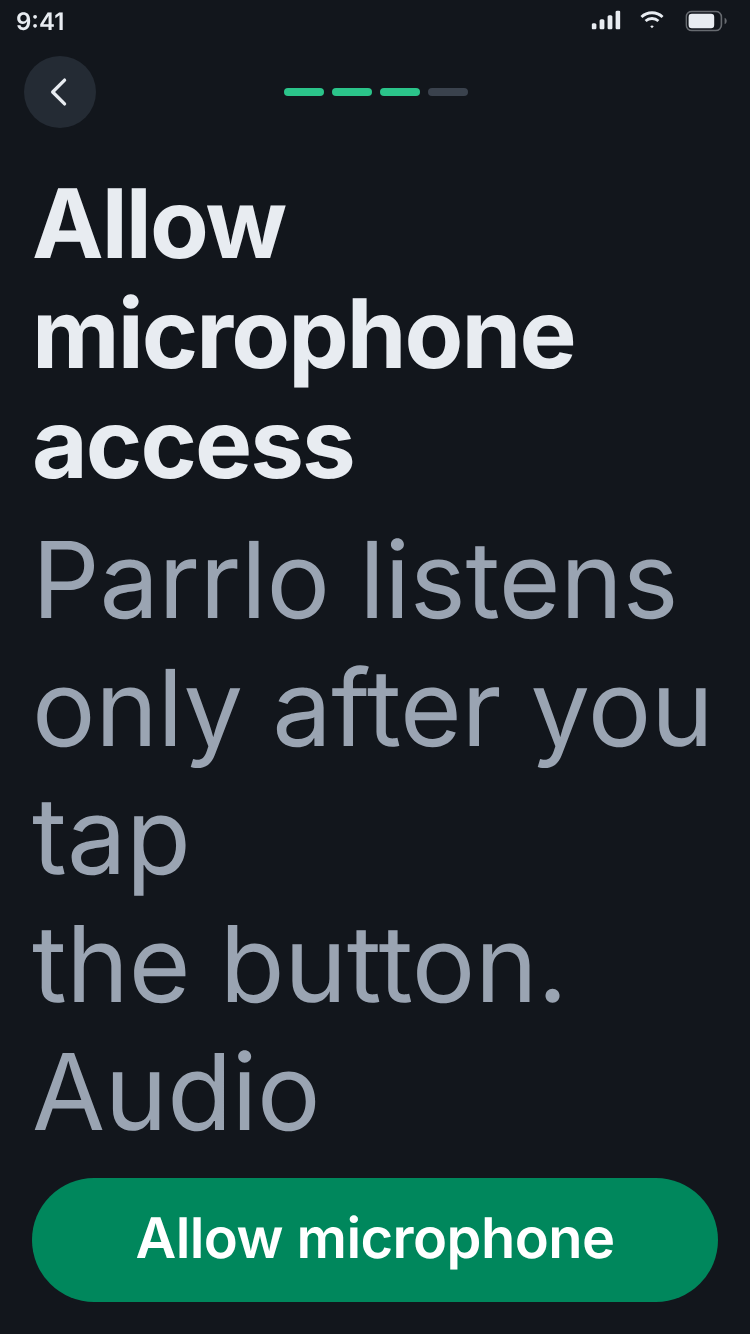
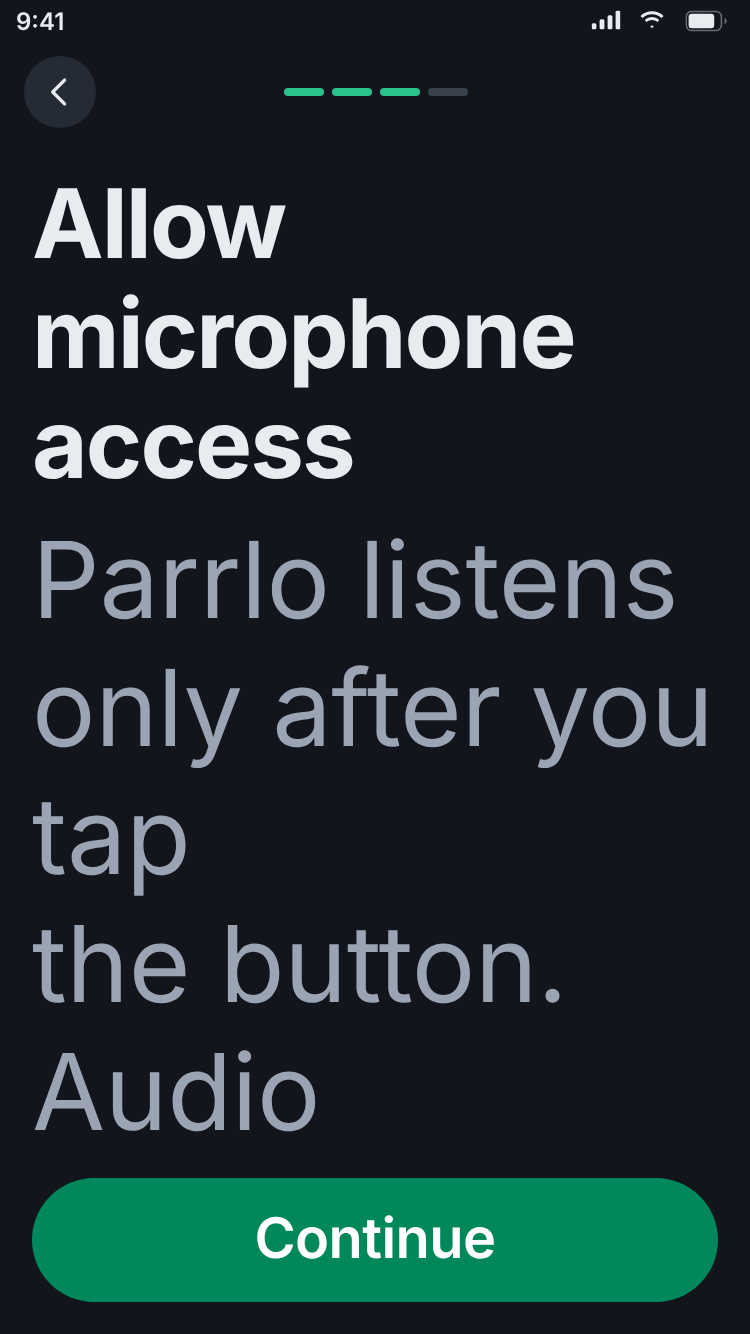
Онбординг, ob-mic: кнопка «Продолжить» вместо «Разрешить микрофон» (требование App Review) (#95)
Утверждено оркестратором 22.11, без плашки. tbd-texts.md: 68 мест.

Claude-Session: https://claude.ai/code/session_01XzoWkW25V1nW2Qv4cEPq3n

Changed region(s): [[0.184, 0.8913, 0.828, 0.9528]]

diff --git a/redesign-ios/onboarding/ob-mic.html b/redesign-ios/onboarding/ob-mic.html
@@ -12,7 +12,7 @@ h.dataset.theme='dark';var l=q.get('l');h.lang=(l==='es'||l==='en')?l:'ru';})()<
 <header class="top"><span class="cbtn" role="button" aria-label="Назад"><svg class="ic " viewBox="0 0 24 24" aria-hidden="true"><path d="M14.5 5.5L8 12l6.5 6.5"/></svg></span><div class="prog" role="img" aria-label="Шаг 3 из 4"><i class="on"></i><i class="on"></i><i class="on"></i><i class=""></i></div></header>
 <div class="body"><div class="obi" aria-hidden="true"><svg class="ic " viewBox="0 0 24 24" aria-hidden="true"><rect x="8.6" y="2.6" width="6.8" height="12" rx="3.4" fill="currentColor" stroke="none"/><path d="M5.6 11.2a6.4 6.4 0 0012.8 0M12 17.6v3.4M8.8 21h6.4"/></svg></div><h1 class="ttl">Разреши микрофон</h1>
 <p class="lead">Parrlo слушает только после нажатия на кнопку. Звук не сохраняется.</p><span class="tbd">юрист проверит</span></div>
-<div class="acts"><span class="bp" role="button"><span>Разрешить микрофон</span></span></div>
+<div class="acts"><span class="bp" role="button"><span>Продолжить</span></span></div>
 <i class="home-ind"></i></template>
 <template id="l-es" data-cls="ob"><div class="sb"><span>9:41</span><i class="island"></i><span class="ri">
 <svg width="18" height="12" viewBox="0 0 18 12" fill="currentColor"><rect x="0" y="8" width="3" height="4" rx="1"/><rect x="5" y="5.5" width="3" height="6.5" rx="1"/><rect x="10" y="3" width="3" height="9" rx="1"/><rect x="15" y="0" width="3" height="12" rx="1"/></svg>
@@ -21,7 +21,7 @@ h.dataset.theme='dark';var l=q.get('l');h.lang=(l==='es'||l==='en')?l:'ru';})()<
 <header class="top"><span class="cbtn" role="button" aria-label="Atrás"><svg class="ic " viewBox="0 0 24 24" aria-hidden="true"><path d="M14.5 5.5L8 12l6.5 6.5"/></svg></span><div class="prog" role="img" aria-label="Paso 3 de 4"><i class="on"></i><i class="on"></i><i class="on"></i><i class=""></i></div></header>
 <div class="body"><div class="obi" aria-hidden="true"><svg class="ic " viewBox="0 0 24 24" aria-hidden="true"><rect x="8.6" y="2.6" width="6.8" height="12" rx="3.4" fill="currentColor" stroke="none"/><path d="M5.6 11.2a6.4 6.4 0 0012.8 0M12 17.6v3.4M8.8 21h6.4"/></svg></div><h1 class="ttl">Permite el micrófono</h1>
 <p class="lead">Parrlo solo escucha cuando pulsas el botón. El audio no se guarda.</p><span class="tbd">lo revisará un abogado</span></div>
-<div class="acts"><span class="bp" role="button"><span>Permitir micrófono</span></span></div>
+<div class="acts"><span class="bp" role="button"><span>Continuar</span></span></div>
 <i class="home-ind"></i></template>
 <template id="l-en" data-cls="ob"><div class="sb"><span>9:41</span><i class="island"></i><span class="ri">
 <svg width="18" height="12" viewBox="0 0 18 12" fill="currentColor"><rect x="0" y="8" width="3" height="4" rx="1"/><rect x="5" y="5.5" width="3" height="6.5" rx="1"/><rect x="10" y="3" width="3" height="9" rx="1"/><rect x="15" y="0" width="3" height="12" rx="1"/></svg>
@@ -29,8 +29,8 @@ h.dataset.theme='dark';var l=q.get('l');h.lang=(l==='es'||l==='en')?l:'ru';})()<
 <svg width="27" height="13" viewBox="0 0 27 13"><rect x=".5" y=".5" width="22" height="12" rx="3.5" fill="none" stroke="currentColor" stroke-opacity=".4"/><rect x="2" y="2" width="16" height="9" rx="2" fill="currentColor"/><path d="M24.5 4.5v4c.8-.3 1.3-1.1 1.3-2s-.5-1.7-1.3-2z" fill="currentColor" fill-opacity=".4"/></svg></span></div>
 <header class="top"><span class="cbtn" role="button" aria-label="Back"><svg class="ic " viewBox="0 0 24 24" aria-hidden="true"><path d="M14.5 5.5L8 12l6.5 6.5"/></svg></span><div class="prog" role="img" aria-label="Step 3 of 4"><i class="on"></i><i class="on"></i><i class="on"></i><i class=""></i></div></header>
 <div class="body"><div class="obi" aria-hidden="true"><svg class="ic " viewBox="0 0 24 24" aria-hidden="true"><rect x="8.6" y="2.6" width="6.8" height="12" rx="3.4" fill="currentColor" stroke="none"/><path d="M5.6 11.2a6.4 6.4 0 0012.8 0M12 17.6v3.4M8.8 21h6.4"/></svg></div><h1 class="ttl">Allow microphone access</h1>
-<p class="lead">Parrlo listens only after you tap the button. Audio is never stored.</p><span class="tbd">lawyer to review</span><span class="tbd">en button “Allow microphone”: not approved</span></div>
-<div class="acts"><span class="bp" role="button"><span>Allow microphone</span></span></div>
+<p class="lead">Parrlo listens only after you tap the button. Audio is never stored.</p><span class="tbd">lawyer to review</span></div>
+<div class="acts"><span class="bp" role="button"><span>Continue</span></span></div>
 <i class="home-ind"></i></template>
 <script>function wordfit(){
  if(document.documentElement.dataset.t!=='ax5')return;

diff --git a/redesign-ios/onboarding/tools/build.js b/redesign-ios/onboarding/tools/build.js
@@ -195,8 +195,8 @@ S['ob-address'] = (li) => {
 };
 S['ob-mic'] = (li) => ob(`${top(li, 3, true, 4)}
 <div class="body">${icHead('mic')}<h1 class="ttl">${tx(L('Разреши микрофон', 'Permite el micrófono', 'Allow microphone access')[li])}</h1>
-<p class="lead">${tx(L('Parrlo слушает только после нажатия на кнопку. Звук не сохраняется.', 'Parrlo solo escucha cuando pulsas el botón. El audio no se guarda.', 'Parrlo listens only after you tap the button. Audio is never stored.')[li])}</p>${tbd(L('юрист проверит', 'lo revisará un abogado', 'lawyer to review')[li])}${li === 2 ? tbd('en button “Allow microphone”: not approved') : ''}</div>
-<div class="acts">${bp(L('Разрешить микрофон', 'Permitir micrófono', 'Allow microphone')[li])}</div>`);
+<p class="lead">${tx(L('Parrlo слушает только после нажатия на кнопку. Звук не сохраняется.', 'Parrlo solo escucha cuando pulsas el botón. El audio no se guarda.', 'Parrlo listens only after you tap the button. Audio is never stored.')[li])}</p>${tbd(L('юрист проверит', 'lo revisará un abogado', 'lawyer to review')[li])}</div>
+<div class="acts">${bp(C.cont[li])}</div>`);
 
 // согласие — текст юриста дословно
 const FACTS = [

diff --git a/redesign-ios/onboarding/README.md b/redesign-ios/onboarding/README.md
@@ -14,7 +14,7 @@
 | Экран | Старый кадр | Что на экране |
 |---|---|---|
 | **ob-address** (живой путь) | — (FiOnboarding.swift) | шаг 2/4, круг 96 с person, «Как к тебе обращаться?», карточки «Мужчина» / «Женщина» с примерами «я устал» / «я устала» (выбранная залита цветом своего облачка, на AX5 в одну колонку), «Дальше» + «Пропустить» |
-| **ob-mic** (живой путь) | — (FiOnboarding.swift) | шаг 3/4, круг 96 с mic.fill, «Разреши микрофон», текст с плашкой «юрист проверит», одна кнопка «Разрешить микрофон», без «Пропустить» |
+| **ob-mic** (живой путь) | — (FiOnboarding.swift) | шаг 3/4, круг 96 с mic.fill, «Разреши микрофон», текст с плашкой «юрист проверит», одна кнопка «Продолжить» (перед системным запросом — требование App Review), без «Пропустить» |
 | **ob-welcome** (приоритет) | ob-welcome | шаг 1/7, круг с попугаем, «Parrlo Chat», заголовок, текст, «Начать» |
 | ob-language | ob-language | шаг 2/7, список RU/EN/ES (галочка у языка интерфейса), «Продолжить» |
 | **ob-signin** (приоритет) | ob-signin | шаг 3/7, юр. строка + «не утверждено», ссылки, блок оператора (пунктир), кнопки Apple / Google |
@@ -42,7 +42,7 @@
 
 ## Решения
 
-- **Живой путь мессенджера** (решение 22.11): приветствие → обращение → микрофон → вкладки, прогресс из 4 сегментов (тот же плоский стиль). Тексты ru/es — из кода и Translate (es «¿Cómo nos dirigimos a ti?»); en заголовков и текста микрофона — от Translate; en текста про окончания, карточек «Man / Woman» и кнопки «Allow microphone» — черновики с плашкой. Примеры «я устал» / «я устала» не переводятся и не переносятся. На AX5 круг со значком скрыт, тело прокручивается.
+- **Живой путь мессенджера** (решение 22.11): приветствие → обращение → микрофон → вкладки, прогресс из 4 сегментов (тот же плоский стиль). Тексты ru/es — из кода и Translate (es «¿Cómo nos dirigimos a ti?»); en заголовков и текста микрофона — от Translate; en текста про окончания, карточек «Man / Woman» — черновики с плашкой. Примеры «я устал» / «я устала» не переводятся и не переносятся. На AX5 круг со значком скрыт, тело прокручивается.
 
 - **Каркас шага:** сверху «‹» в круге 36 (как в навбаре редизайна) и прогресс; тело прокручивается; внизу закреплены действия. Отступ от краёв 16.
 - **Прогресс 7 шагов — плоский:** 7 одинаковых сегментов 20 × 4, зазор 4; пройденные и текущий — #2BC48A, остальные #3A424D. Без свечения, без «вытянутой» точки. На AX5 не растёт. На экранах отказа (`ob-age-under*`) и блокировки прогресса нет, как было.

diff --git a/docs/tbd-texts.md b/docs/tbd-texts.md
@@ -2,7 +2,7 @@
 
 Собрано 22.11.2026 из отрисованных страниц `redesign-ios/{onboarding,settings,contacts-calls,groups,sheets}`, в ru, es и en, после вычитки Переводчика (`docs/tbd-texts-review.md`). Утверждённые по вычитке тексты применены, их плашки сняты; ниже — то, что осталось.
 
-**Итого: 69 мест.** Решает Мурат — 44, юрист — 22, Translate (en) — 3.
+**Итого: 68 мест.** Решает Мурат — 44, юрист — 22, Translate (en) — 2.
 
 - **Решает Мурат** — плашки «не утверждено», «формулировка: не утверждено», «запасной вариант», «кнопка жалобы: формулировка не утверждена». Сюда входят служебные пометки для дизайна («не UI» в вычитке), блокер с ценой подписки (`plans`, цена — `{price}` из StoreKit) и исправленные черновики вычитки.
 - **Решает Translate** — черновики en на экранах `ob-address` и `ob-mic` (ru/es там уже утверждены).
@@ -10,7 +10,7 @@
 - «Текст» — то, к чему относится плашка: строка, абзац или кадр целиком. Если плашка стоит отдельной строкой под блоком (список, кнопка, лист), в ячейке — «(блок над плашкой)» и текст этого блока. Плашки сопоставлены по месту в разметке, поэтому сдвига колонок больше нет. Если у ru нет пары в es или en, стоит «—»: плашка есть только в ru (примеры сообщений в листах).
 
 
-## Вход и онбординг (`redesign-ios/onboarding/`) — 11
+## Вход и онбординг (`redesign-ios/onboarding/`) — 10
 
 | № | Экран | Решает | Пометка | ru | es | en |
 |---|---|---|---|---|---|---|
@@ -24,7 +24,6 @@
 | 8 | `ob-address` | Translate | en text: not approved | — | — | This helps us get Russian endings right: «я устал» or «я устала». |
 | 9 | `ob-address` | Translate | en: Man / Woman — not approved | Мужчина · Женщина | Hombre · Mujer | Man · Woman |
 | 10 | `ob-mic` | юрист | юрист проверит | Parrlo слушает только после нажатия на кнопку. Звук не сохраняется. | Parrlo solo escucha cuando pulsas el botón. El audio no se guarda. | Parrlo listens only after you tap the button. Audio is never stored. |
-| 11 | `ob-mic` | Translate | en button “Allow microphone”: not approved | Разрешить микрофон | Permitir micrófono | Allow microphone |
 
 
 ## Настройки (`redesign-ios/settings/`) — 7
